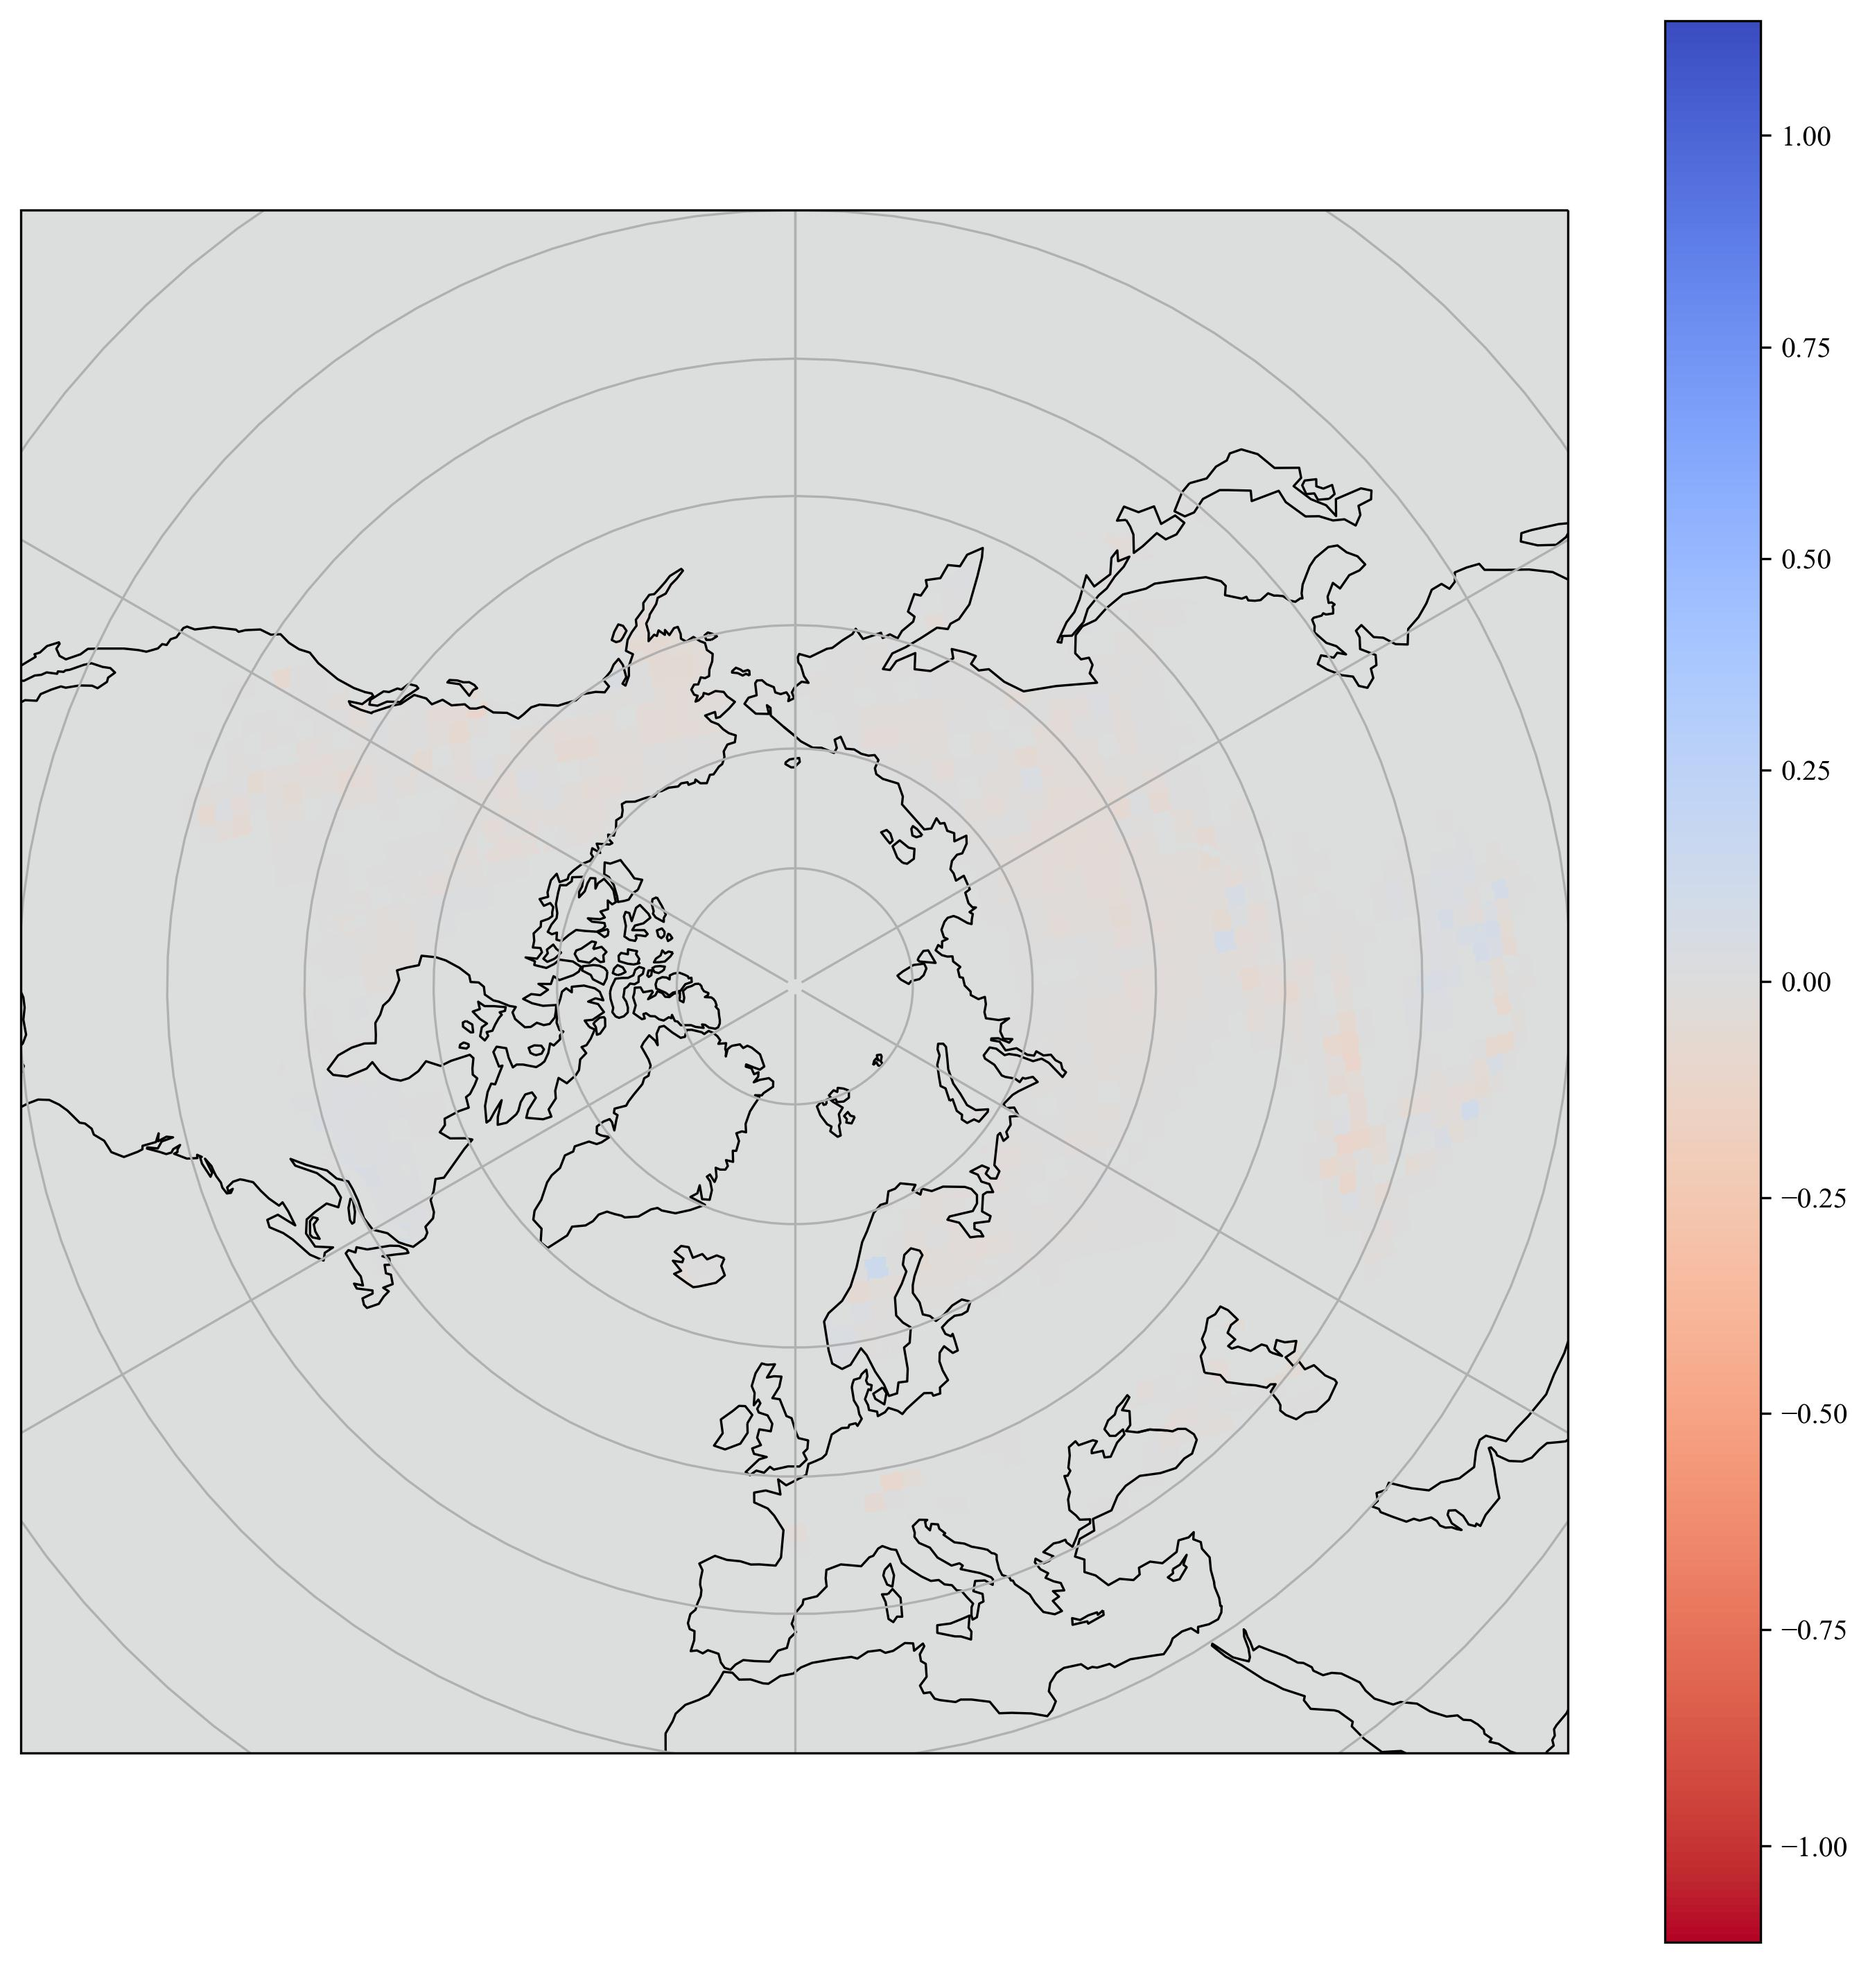
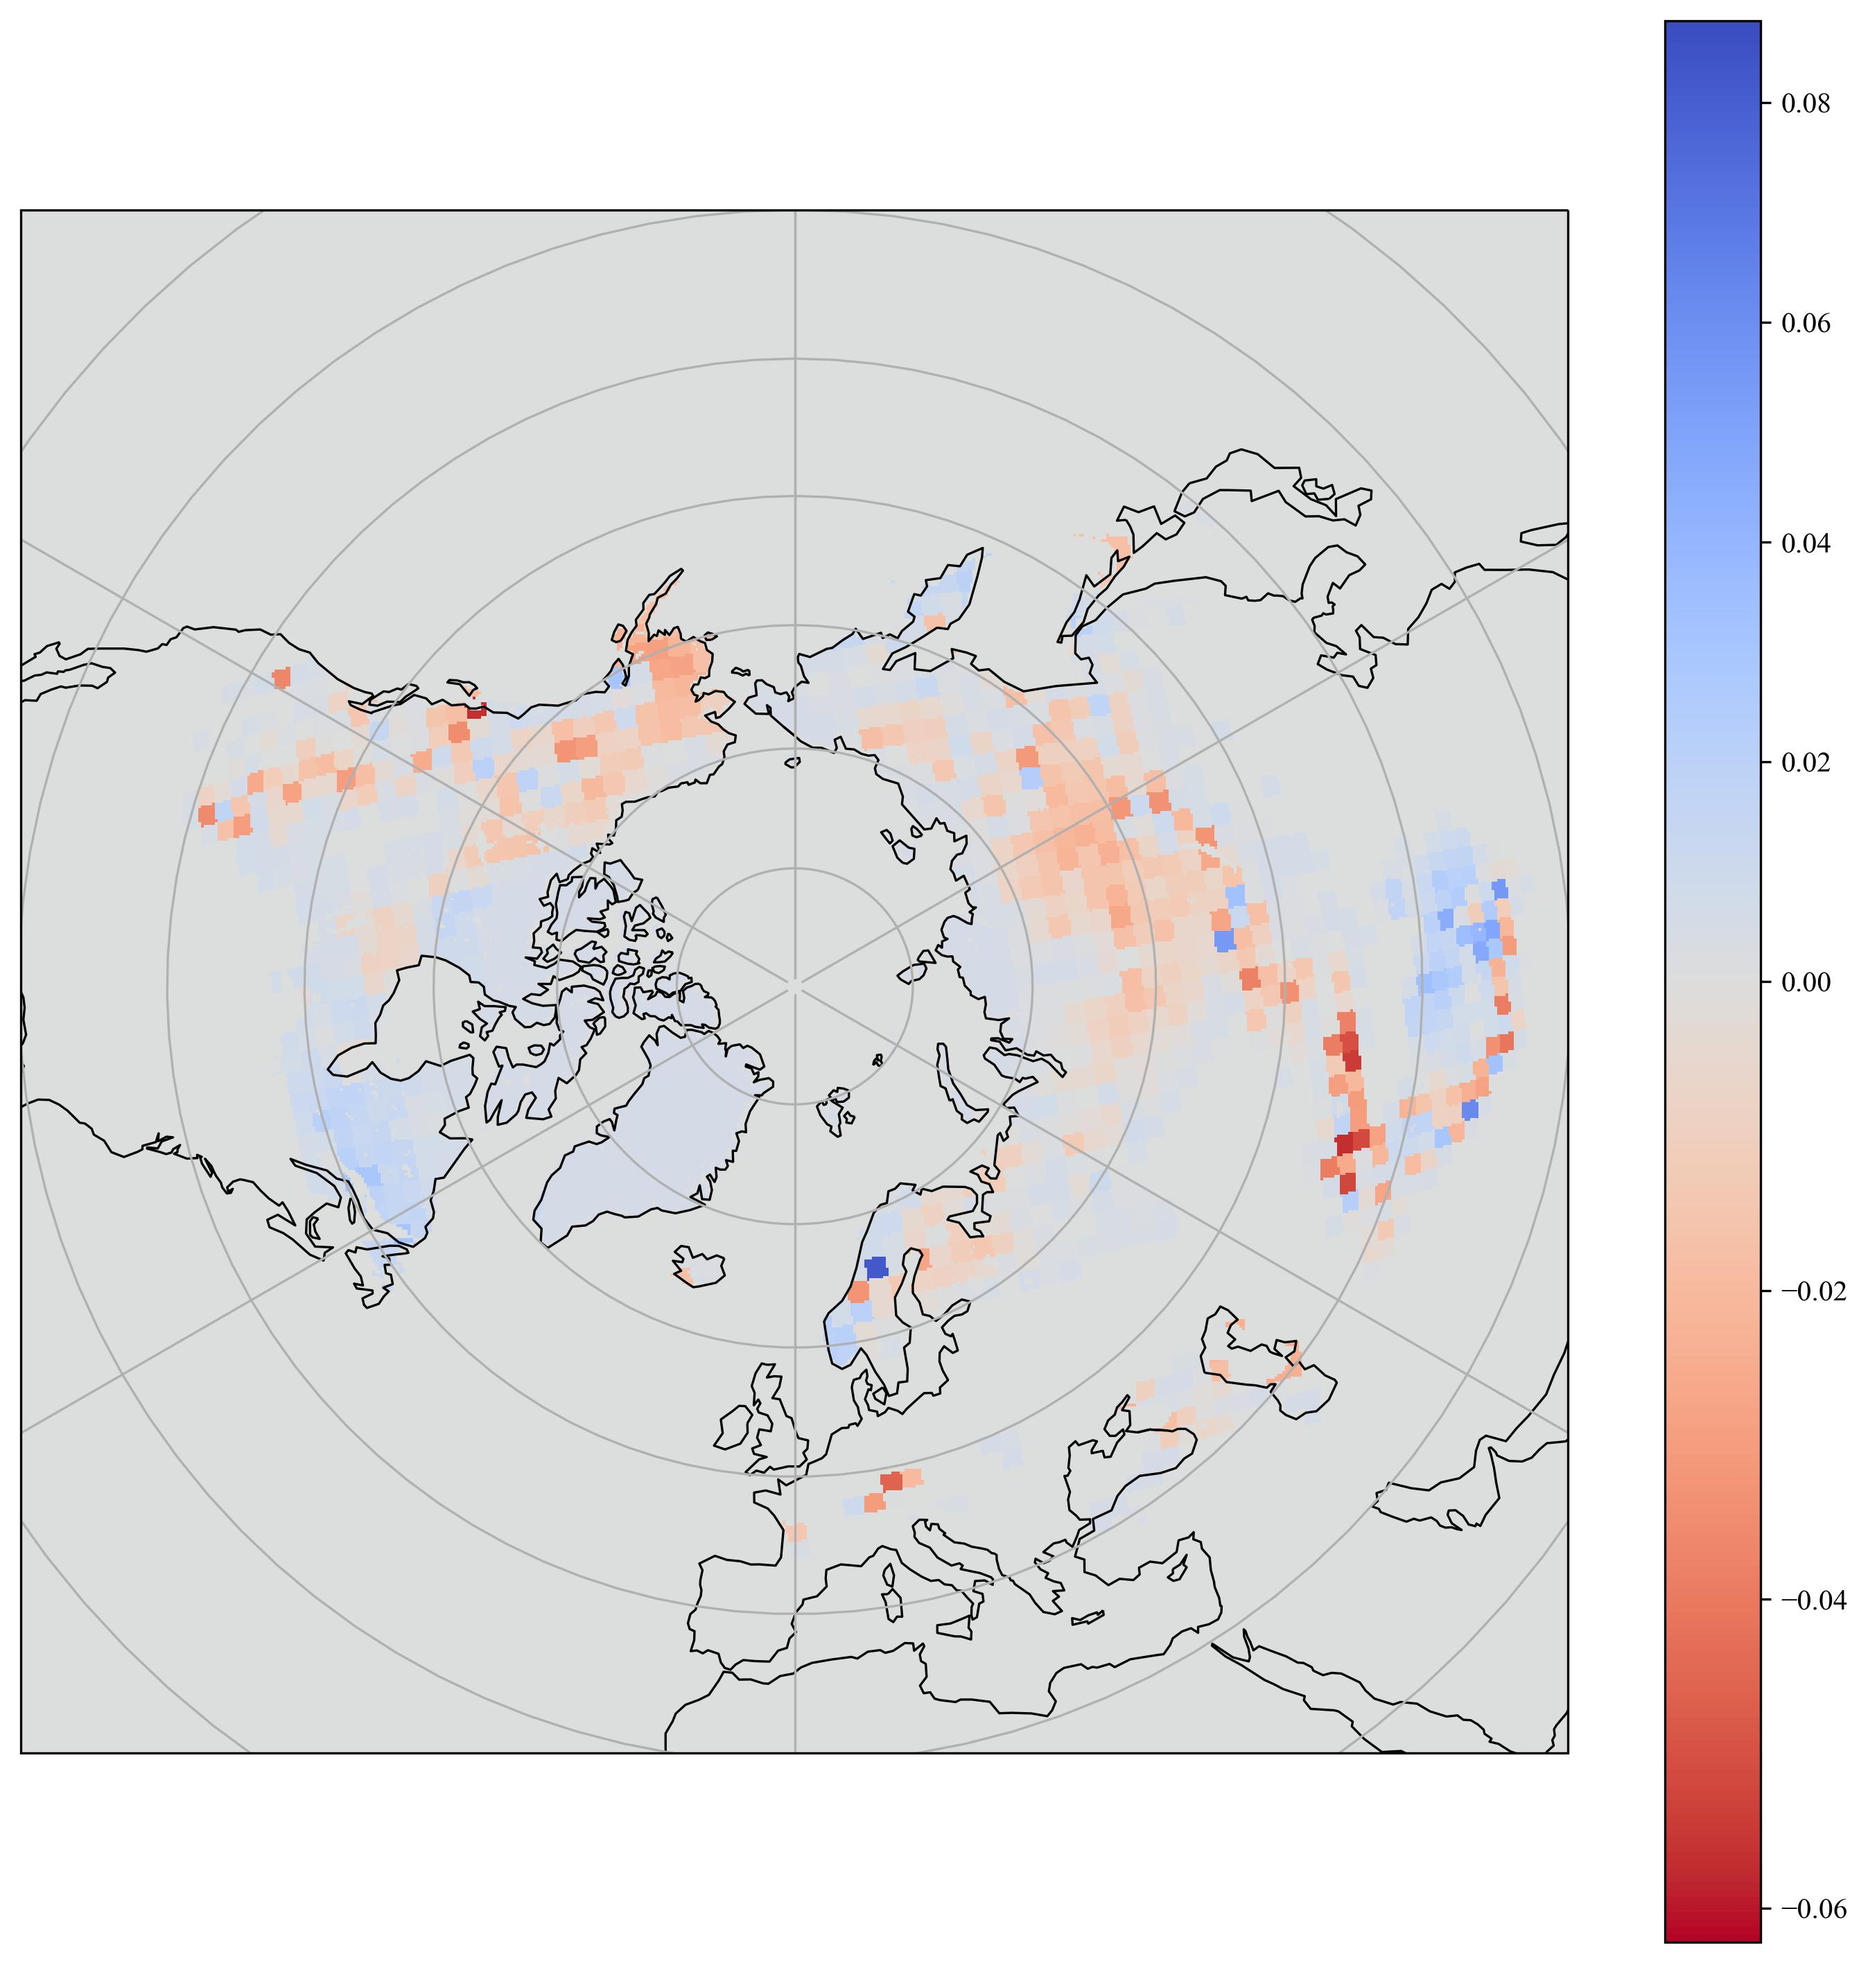
fixed rep map plotting

diff --git a/nondetrended_covar_v2.py b/nondetrended_covar_v2.py
@@ -405,14 +405,9 @@ def monthly_computation_handler(month, lat, lon):
     # given the format of this matrix, you would want to apply it to all the columns,
     # but given that the function only works on individual elements for a single month, applying it across all elements row-wise will also work
     snow_combined = np.vectorize(lambda x: min(x, 4))(snow_combined)
-
     snow_comb = remove_rows(snow_combined, suffix=str(month))
-
     x_time = np.arange(0, snow_comb.shape[1], 1).reshape(-1, 1)
-    # finding regression coefficients
-    rcoeffs = np.zeros(snow_comb.shape[0])
-    for pixel in range(snow_comb.shape[0]):
-        rcoeffs[pixel] = LinearRegression().fit(x_time, snow_comb[pixel]).coef_
+
 
     ### SETTING DATA MATRIX, X
 
@@ -441,14 +436,17 @@ def monthly_computation_handler(month, lat, lon):
     rmap_save_as = figs_path + str(month) + "/snow_rmap/map_reg_coeff"
 
 
-    ## Plot Regression coefficient map
+    #### Plot Regression coefficient map - scaling has been applied to raw data
+    # finding regression coefficients
+    rcoeffs = np.zeros(X.shape[1])
+    for pixel in range(X.shape[1]):
+        rcoeffs[pixel] = LinearRegression().fit(x_time, X[:,pixel]).coef_
     # reinserting and plotting
     rcoeffs_map = reinsert_rows(rcoeffs, suffix=str(month)).reshape(data_dim[0], data_dim[1])
     # turn into dict and plot
     plotter({"Regression coefficient map" : rcoeffs_map}, coord=(lat, lon), dx=25000, dy=25000,
-            marg=0, min_lat=30, cmap=plt.cm.get_cmap('coolwarm_r'), cb_tix=False,
+            marg=0, min_lat=30, cmap=plt.cm.get_cmap('coolwarm_r'), cb_tix=False, cb_marg=0.005,
             save_as=rmap_save_as+".jpg")
-
 
 
     ## PLOT PC TIMESERIES

diff --git a/detrended_covar_v2.py b/detrended_covar_v2.py
@@ -405,14 +405,8 @@ def monthly_computation_handler(month, lat, lon):
     # given the format of this matrix, you would want to apply it to all the columns,
     # but given that the function only works on individual elements for a single month, applying it across all elements row-wise will also work
     snow_combined = np.vectorize(lambda x: min(x, 4))(snow_combined)
-
     snow_comb = remove_rows(snow_combined, suffix=str(month))
-
     x_time = np.arange(0, snow_comb.shape[1], 1).reshape(-1, 1)
-    # finding regression coefficients
-    rcoeffs = np.zeros(snow_comb.shape[0])
-    for pixel in range(snow_comb.shape[0]):
-        rcoeffs[pixel] = LinearRegression().fit(x_time, snow_comb[pixel]).coef_
 
     ### SETTING DATA MATRIX, X
 
@@ -449,12 +443,16 @@ def monthly_computation_handler(month, lat, lon):
     rmap_save_as = figs_path + str(month) + "/snow_rmap/map_reg_coeff"
 
 
-    ## Plot Regression coefficient map
+    #### Plot Regression coefficient map - scaling has been applied to raw data
+    # finding regression coefficients
+    rcoeffs = np.zeros(X.shape[1])
+    for pixel in range(X.shape[1]):
+        rcoeffs[pixel] = LinearRegression().fit(x_time, X[:,pixel]).coef_
     # reinserting and plotting
     rcoeffs_map = reinsert_rows(rcoeffs, suffix=str(month)).reshape(data_dim[0], data_dim[1])
     # turn into dict and plot
     plotter({"Regression coefficient map" : rcoeffs_map}, coord=(lat, lon), dx=25000, dy=25000,
-            marg=0, min_lat=30, cmap=plt.cm.get_cmap('coolwarm_r'), cb_tix=False,
+            marg=0, min_lat=30, cmap=plt.cm.get_cmap('coolwarm_r'), cb_tix=False, cb_marg=0.005,
             save_as=rmap_save_as+".jpg")
 
 

diff --git a/detrended_svd_v2.py b/detrended_svd_v2.py
@@ -460,8 +460,11 @@ def monthly_computation_handler(month, lat, lon):
     rcoeffs_map = reinsert_rows(rcoeffs, suffix=str(month)).reshape(data_dim[0], data_dim[1])
     # turn into dict and plot
     plotter({"Regression coefficient map" : rcoeffs_map}, coord=(lat, lon), dx=25000, dy=25000,
-            marg=0, min_lat=30, cmap=plt.cm.get_cmap('coolwarm_r'), cb_tix=False,
+            marg=0, min_lat=30, cmap=plt.cm.get_cmap('coolwarm_r'), cb_tix=False, cb_marg=0.005,
             save_as=rmap_save_as+".jpg")
+
+    print(str(min(rcoeffs))) # just testing
+    print(str(max(rcoeffs)))
 
     ## PLOT PC TIMESERIES
     for y in range(plt_rng):

diff --git a/nondetrended_svd_v2.py b/nondetrended_svd_v2.py
@@ -454,8 +454,11 @@ def monthly_computation_handler(month, lat, lon):
     rcoeffs_map = reinsert_rows(rcoeffs, suffix=str(month)).reshape(data_dim[0], data_dim[1])
     # turn into dict and plot
     plotter({"Regression coefficient map" : rcoeffs_map}, coord=(lat, lon), dx=25000, dy=25000,
-            marg=0, min_lat=30, cmap=plt.cm.get_cmap('coolwarm_r'), cb_tix=False,
+            marg=0, min_lat=30, cmap=plt.cm.get_cmap('coolwarm_r'), cb_tix=False, cb_marg=0.005,
             save_as=rmap_save_as+".jpg")
+
+    print(str(min(rcoeffs))) # just testing
+    print(str(max(rcoeffs)))
 
     ## PLOT PC TIMESERIES
     for y in range(plt_rng):
